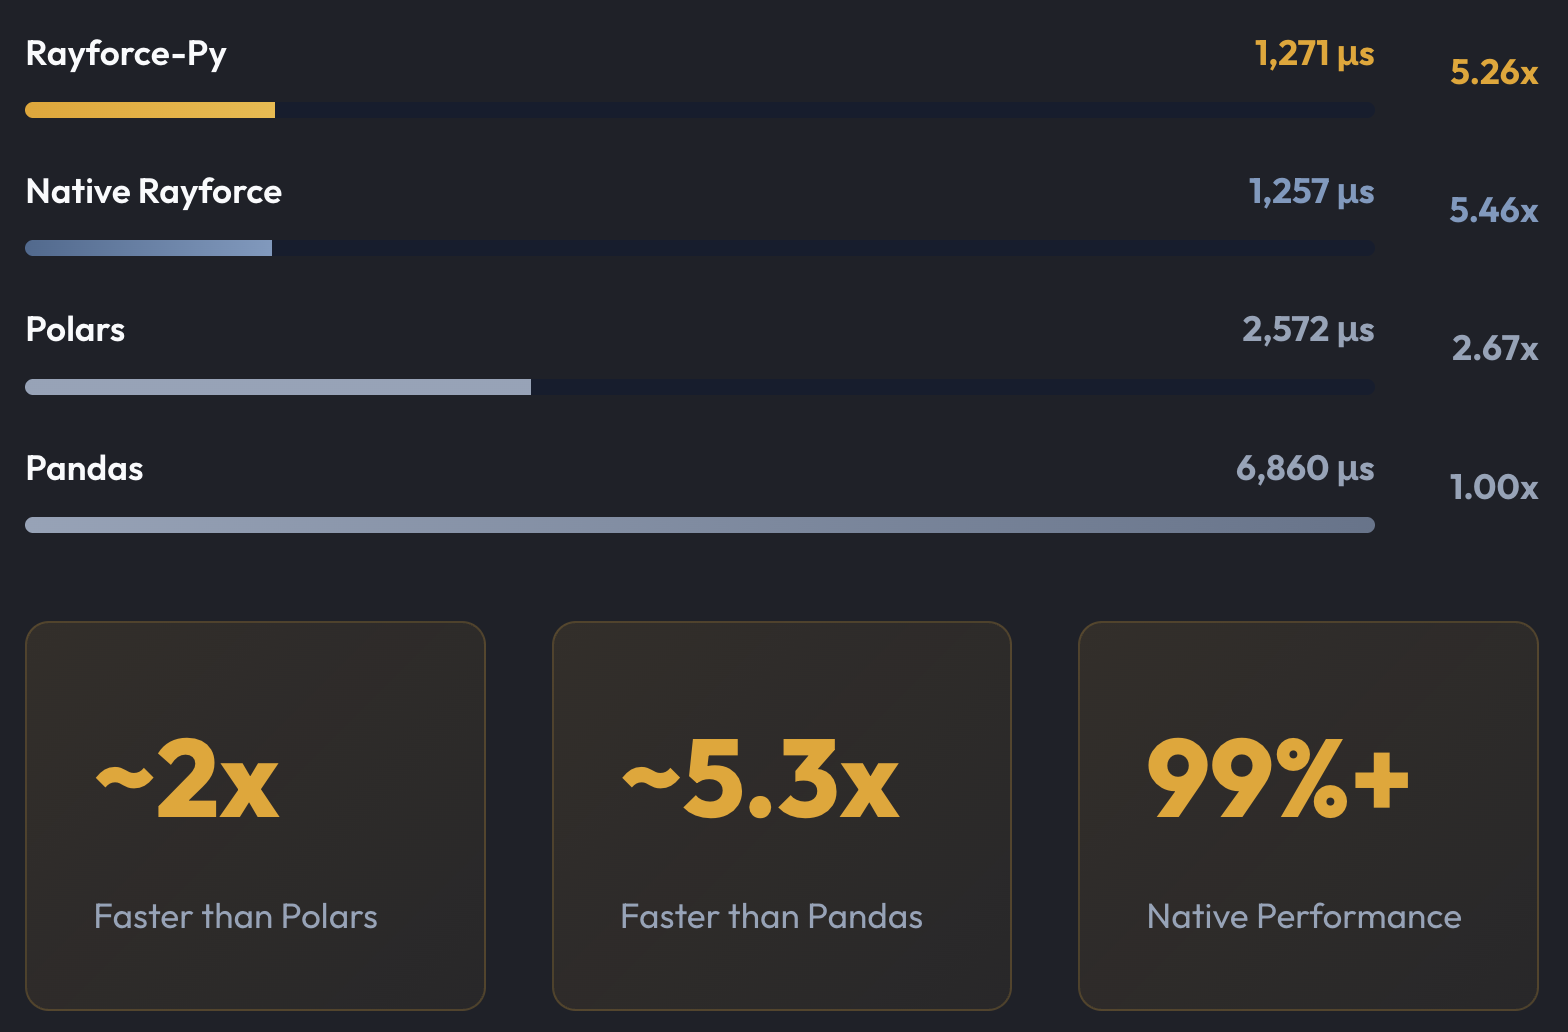
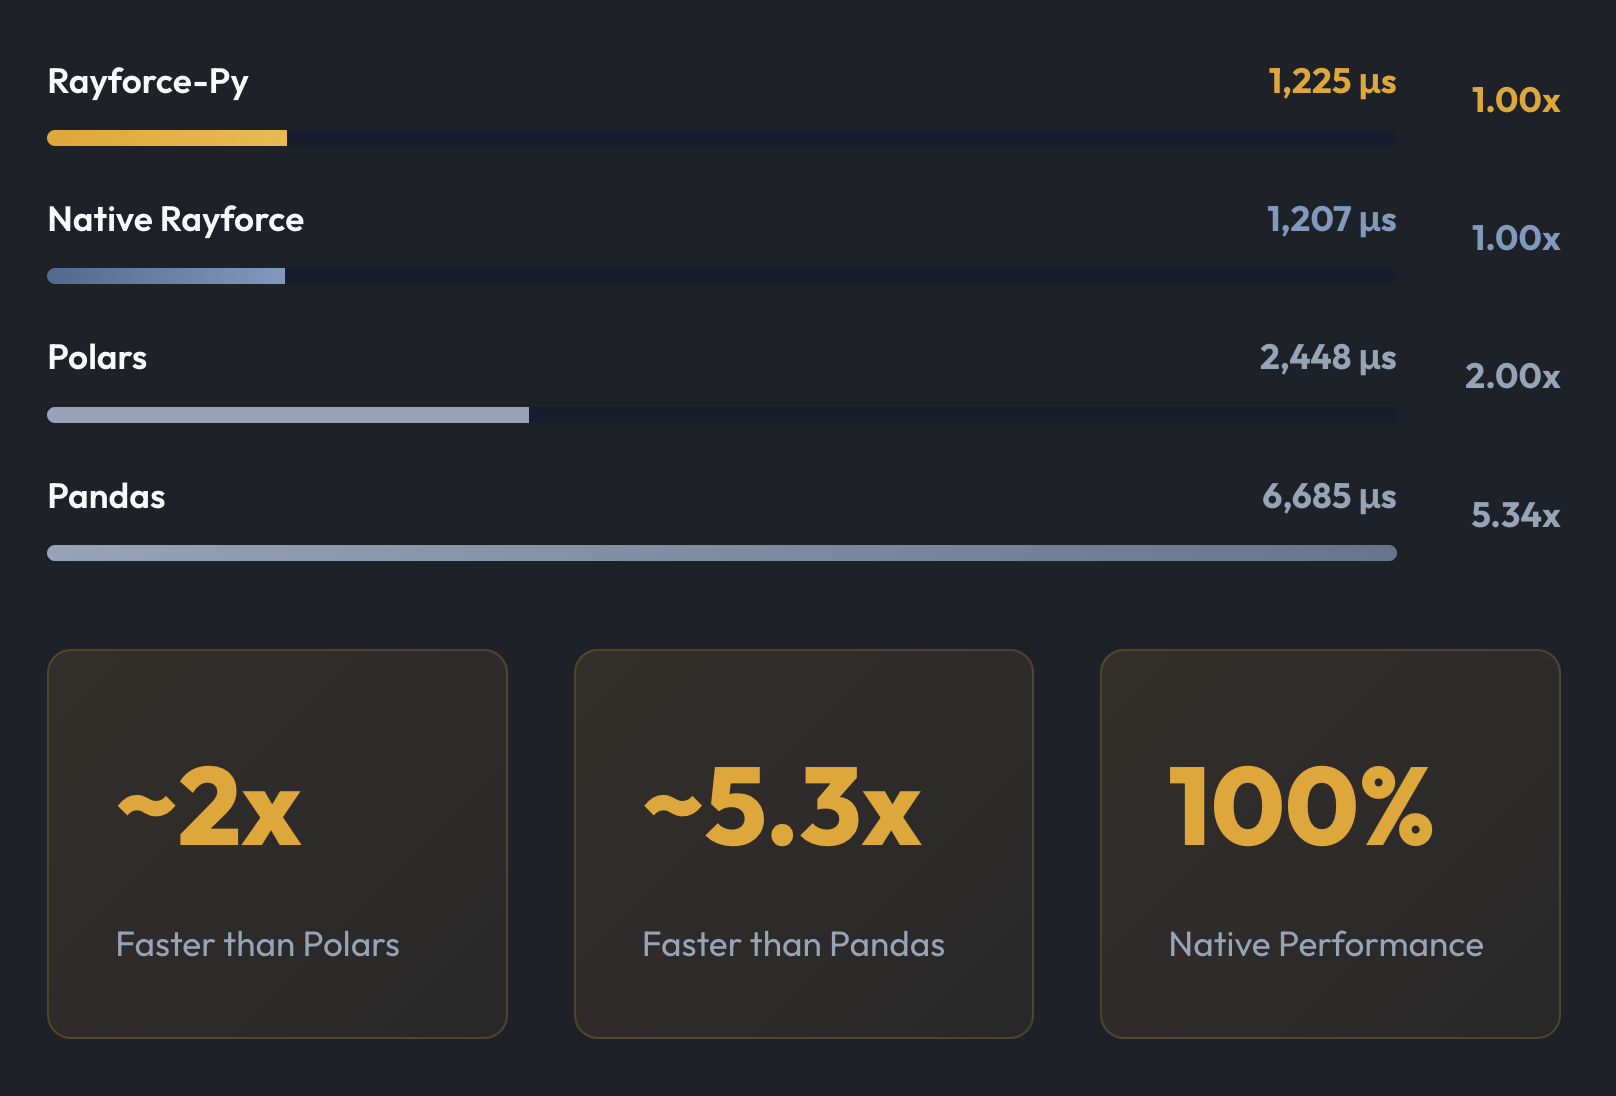
(docs) Update benchmarks

diff --git a/docs/docs/content/get-started/benchmarks.md b/docs/docs/content/get-started/benchmarks.md
@@ -12,7 +12,7 @@ var chartInstances = {};
 function rgbToHex(rgb) {
   if (!rgb) return '';
   if (rgb.startsWith('#')) return rgb;
-  
+
   var match = rgb.match(/rgb\((\d+),\s*(\d+),\s*(\d+)\)/);
   if (match) {
     var r = parseInt(match[1]).toString(16).padStart(2, '0');
@@ -27,11 +27,11 @@ function rgbToHex(rgb) {
 function getChartTheme() {
   // Use light grey for all chart text
   var textColor = '#888888';
-  
+
   // Determine if dark mode for other styling
   var scheme = document.documentElement.getAttribute('data-md-color-scheme');
   var isDark = scheme === 'slate';
-  
+
   return {
     textColor: textColor,
     gridLineColor: isDark ? '#4A5568' : '#D0D0D0',
@@ -43,7 +43,7 @@ function getChartTheme() {
 function initAllCharts() {
   // Get fresh theme detection for each initialization
   var theme = getChartTheme();
-  
+
   // Q1 Chart
   var q1Chart = echarts.init(document.getElementById('q1-chart'));
   q1Chart.setOption({
@@ -54,14 +54,14 @@ function initAllCharts() {
     xAxis: { type: 'category', data: ['Rayforce-Py', 'Native Rayforce', 'Polars', 'Pandas'], axisLabel: { textStyle: { color: theme.textColor } } },
     yAxis: { type: 'value', name: 'Time (μs)', nameLocation: 'middle', nameGap: 50, nameTextStyle: { color: theme.textColor }, axisLabel: { textStyle: { color: theme.textColor } }, splitLine: { lineStyle: { color: theme.gridLineColor } } },
     series: [{ name: 'Time (μs)', type: 'bar', data: [
-      { value: 781, itemStyle: { color: '#E9A320' } },
-      { value: 779, itemStyle: { color: '#1B365D' } },
-      { value: 1096, itemStyle: { color: '#718096' } },
-      { value: 3696, itemStyle: { color: '#718096' } }
+      { value: 741, itemStyle: { color: '#E9A320' } },
+      { value: 761, itemStyle: { color: '#1B365D' } },
+      { value: 1143, itemStyle: { color: '#718096' } },
+      { value: 3663, itemStyle: { color: '#718096' } }
     ], label: { show: true, position: 'top', textStyle: { color: theme.textColor, fontWeight: 'bold' } } }]
   });
   chartInstances['q1-chart'] = q1Chart;
-  
+
   // Q2 Chart
   var q2Chart = echarts.init(document.getElementById('q2-chart'));
   q2Chart.setOption({
@@ -72,14 +72,14 @@ function initAllCharts() {
     xAxis: { type: 'category', data: ['Rayforce-Py', 'Native Rayforce', 'Polars', 'Pandas'], axisLabel: { rotate: 0, color: theme.textColor }, axisLine: { lineStyle: { color: theme.textColor } } },
     yAxis: { type: 'value', name: 'Time (μs)', nameLocation: 'middle', nameGap: 50, nameTextStyle: { color: theme.textColor }, axisLabel: { color: theme.textColor }, axisLine: { lineStyle: { color: theme.textColor } }, splitLine: { lineStyle: { color: theme.gridLineColor } } },
     series: [{ name: 'Time (μs)', type: 'bar', data: [
-      { value: 2398, itemStyle: { color: '#E9A320' } },
-      { value: 2410, itemStyle: { color: '#1B365D' } },
-      { value: 6797, itemStyle: { color: '#718096' } },
-      { value: 14155, itemStyle: { color: '#718096' } }
+      { value: 2351, itemStyle: { color: '#E9A320' } },
+      { value: 2400, itemStyle: { color: '#1B365D' } },
+      { value: 6763, itemStyle: { color: '#718096' } },
+      { value: 13675, itemStyle: { color: '#718096' } }
     ], label: { show: true, position: 'top', color: theme.textColor } }]
   });
   chartInstances['q2-chart'] = q2Chart;
-  
+
   // Q3 Chart
   var q3Chart = echarts.init(document.getElementById('q3-chart'));
   q3Chart.setOption({
@@ -90,14 +90,14 @@ function initAllCharts() {
     xAxis: { type: 'category', data: ['Rayforce-Py', 'Native Rayforce', 'Polars', 'Pandas'], axisLabel: { rotate: 0, color: theme.textColor }, axisLine: { lineStyle: { color: theme.textColor } } },
     yAxis: { type: 'value', name: 'Time (μs)', nameLocation: 'middle', nameGap: 50, nameTextStyle: { color: theme.textColor }, axisLabel: { color: theme.textColor }, axisLine: { lineStyle: { color: theme.textColor } }, splitLine: { lineStyle: { color: theme.gridLineColor } } },
     series: [{ name: 'Time (μs)', type: 'bar', data: [
-      { value: 995, itemStyle: { color: '#E9A320' } },
-      { value: 983, itemStyle: { color: '#1B365D' } },
-      { value: 1261, itemStyle: { color: '#718096' } },
-      { value: 5141, itemStyle: { color: '#718096' } }
+      { value: 956, itemStyle: { color: '#E9A320' } },
+      { value: 974, itemStyle: { color: '#1B365D' } },
+      { value: 1376, itemStyle: { color: '#718096' } },
+      { value: 4902, itemStyle: { color: '#718096' } }
     ], label: { show: true, position: 'top', color: theme.textColor } }]
   });
   chartInstances['q3-chart'] = q3Chart;
-  
+
   // Q4 Chart
   var q4Chart = echarts.init(document.getElementById('q4-chart'));
   q4Chart.setOption({
@@ -108,14 +108,14 @@ function initAllCharts() {
     xAxis: { type: 'category', data: ['Rayforce-Py', 'Native Rayforce', 'Polars', 'Pandas'], axisLabel: { rotate: 0, color: theme.textColor }, axisLine: { lineStyle: { color: theme.textColor } } },
     yAxis: { type: 'value', name: 'Time (μs)', nameLocation: 'middle', nameGap: 50, nameTextStyle: { color: theme.textColor }, axisLabel: { color: theme.textColor }, axisLine: { lineStyle: { color: theme.textColor } }, splitLine: { lineStyle: { color: theme.gridLineColor } } },
     series: [{ name: 'Time (μs)', type: 'bar', data: [
-      { value: 1228, itemStyle: { color: '#E9A320' } },
-      { value: 1205, itemStyle: { color: '#1B365D' } },
-      { value: 1441, itemStyle: { color: '#718096' } },
-      { value: 6158, itemStyle: { color: '#718096' } }
+      { value: 1182, itemStyle: { color: '#E9A320' } },
+      { value: 1182, itemStyle: { color: '#1B365D' } },
+      { value: 1594, itemStyle: { color: '#718096' } },
+      { value: 6161, itemStyle: { color: '#718096' } }
     ], label: { show: true, position: 'top', color: theme.textColor } }]
   });
   chartInstances['q4-chart'] = q4Chart;
-  
+
   // Q5 Chart
   var q5Chart = echarts.init(document.getElementById('q5-chart'));
   q5Chart.setOption({
@@ -126,14 +126,14 @@ function initAllCharts() {
     xAxis: { type: 'category', data: ['Rayforce-Py', 'Native Rayforce', 'Polars', 'Pandas'], axisLabel: { rotate: 0, color: theme.textColor }, axisLine: { lineStyle: { color: theme.textColor } } },
     yAxis: { type: 'value', name: 'Time (μs)', nameLocation: 'middle', nameGap: 50, nameTextStyle: { color: theme.textColor }, axisLabel: { color: theme.textColor }, axisLine: { lineStyle: { color: theme.textColor } }, splitLine: { lineStyle: { color: theme.gridLineColor } } },
     series: [{ name: 'Time (μs)', type: 'bar', data: [
-      { value: 1202, itemStyle: { color: '#E9A320' } },
-      { value: 1176, itemStyle: { color: '#1B365D' } },
-      { value: 1431, itemStyle: { color: '#718096' } },
-      { value: 7086, itemStyle: { color: '#718096' } }
+      { value: 1153, itemStyle: { color: '#E9A320' } },
+      { value: 1164, itemStyle: { color: '#1B365D' } },
+      { value: 1551, itemStyle: { color: '#718096' } },
+      { value: 6908, itemStyle: { color: '#718096' } }
     ], label: { show: true, position: 'top', color: theme.textColor } }]
   });
   chartInstances['q5-chart'] = q5Chart;
-  
+
   // Q6 Chart
   var q6Chart = echarts.init(document.getElementById('q6-chart'));
   q6Chart.setOption({
@@ -144,14 +144,14 @@ function initAllCharts() {
     xAxis: { type: 'category', data: ['Rayforce-Py', 'Native Rayforce', 'Polars', 'Pandas'], axisLabel: { rotate: 0, color: theme.textColor }, axisLine: { lineStyle: { color: theme.textColor } } },
     yAxis: { type: 'value', name: 'Time (μs)', nameLocation: 'middle', nameGap: 50, nameTextStyle: { color: theme.textColor }, axisLabel: { color: theme.textColor }, axisLine: { lineStyle: { color: theme.textColor } }, splitLine: { lineStyle: { color: theme.gridLineColor } } },
     series: [{ name: 'Time (μs)', type: 'bar', data: [
-      { value: 1019, itemStyle: { color: '#E9A320' } },
-      { value: 990, itemStyle: { color: '#1B365D' } },
-      { value: 3403, itemStyle: { color: '#718096' } },
-      { value: 4922, itemStyle: { color: '#718096' } }
+      { value: 967, itemStyle: { color: '#E9A320' } },
+      { value: 971, itemStyle: { color: '#1B365D' } },
+      { value: 3339, itemStyle: { color: '#718096' } },
+      { value: 4802, itemStyle: { color: '#718096' } }
     ], label: { show: true, position: 'top', color: theme.textColor } }]
   });
   chartInstances['q6-chart'] = q6Chart;
-  
+
   // Resize handler
   window.addEventListener('resize', function() {
     Object.values(chartInstances).forEach(function(chart) {
@@ -196,52 +196,52 @@ document.addEventListener('DOMContentLoaded', function() {
     <div style="flex: 1;">
       <div style="display: flex; justify-content: space-between; margin-bottom: 0.5rem;">
         <span style="font-weight: 600;">Rayforce-Py</span>
-        <span style="color: var(--gold-500); font-weight: 700;">1,271 μs</span>
+        <span style="color: var(--gold-500); font-weight: 700;">1,225 μs</span>
       </div>
       <div style="background: var(--bg-tertiary); height: 8px; border-radius: 4px; overflow: hidden;">
-        <div style="background: linear-gradient(90deg, var(--gold-500), var(--gold-400)); height: 100%; width: 18.5%;"></div>
+        <div style="background: linear-gradient(90deg, var(--gold-500), var(--gold-400)); height: 100%; width: 17.8%;"></div>
       </div>
     </div>
-    <div style="color: var(--gold-500); font-weight: 700; min-width: 60px; text-align: right;">5.26x</div>
+    <div style="color: var(--gold-500); font-weight: 700; min-width: 60px; text-align: right;">1.00x</div>
   </div>
 
   <div style="display: flex; align-items: center; gap: 1rem; margin-bottom: 1rem;">
     <div style="flex: 1;">
       <div style="display: flex; justify-content: space-between; margin-bottom: 0.5rem;">
         <span style="font-weight: 600;">Native Rayforce</span>
-        <span style="color: var(--navy-300); font-weight: 700;">1,257 μs</span>
+        <span style="color: var(--navy-300); font-weight: 700;">1,207 μs</span>
       </div>
       <div style="background: var(--bg-tertiary); height: 8px; border-radius: 4px; overflow: hidden;">
-        <div style="background: linear-gradient(90deg, var(--navy-400), var(--navy-300)); height: 100%; width: 18.3%;"></div>
+        <div style="background: linear-gradient(90deg, var(--navy-400), var(--navy-300)); height: 100%; width: 17.6%;"></div>
       </div>
     </div>
-    <div style="color: var(--navy-300); font-weight: 700; min-width: 60px; text-align: right;">5.46x</div>
+    <div style="color: var(--navy-300); font-weight: 700; min-width: 60px; text-align: right;">1.00x</div>
   </div>
-  
+
   <div style="display: flex; align-items: center; gap: 1rem; margin-bottom: 1rem;">
     <div style="flex: 1;">
       <div style="display: flex; justify-content: space-between; margin-bottom: 0.5rem;">
         <span style="font-weight: 600;">Polars</span>
-        <span style="color: var(--text-secondary); font-weight: 700;">2,572 μs</span>
+        <span style="color: var(--text-secondary); font-weight: 700;">2,448 μs</span>
       </div>
       <div style="background: var(--bg-tertiary); height: 8px; border-radius: 4px; overflow: hidden;">
-        <div style="background: linear-gradient(90deg, var(--text-secondary), var(--text-secondary)); height: 100%; width: 37.5%;"></div>
+        <div style="background: linear-gradient(90deg, var(--text-secondary), var(--text-secondary)); height: 100%; width: 35.7%;"></div>
       </div>
     </div>
-    <div style="color: var(--text-secondary); font-weight: 700; min-width: 60px; text-align: right;">2.67x</div>
+    <div style="color: var(--text-secondary); font-weight: 700; min-width: 60px; text-align: right;">2.00x</div>
   </div>
-  
+
   <div style="display: flex; align-items: center; gap: 1rem;">
     <div style="flex: 1;">
       <div style="display: flex; justify-content: space-between; margin-bottom: 0.5rem;">
         <span style="font-weight: 600;">Pandas</span>
-        <span style="color: var(--text-secondary); font-weight: 700;">6,860 μs</span>
+        <span style="color: var(--text-secondary); font-weight: 700;">6,685 μs</span>
       </div>
       <div style="background: var(--bg-tertiary); height: 8px; border-radius: 4px; overflow: hidden;">
         <div style="background: linear-gradient(90deg, var(--text-secondary), var(--text-tertiary)); height: 100%; width: 100%;"></div>
       </div>
     </div>
-    <div style="color: var(--text-secondary); font-weight: 700; min-width: 60px; text-align: right;">1.00x</div>
+    <div style="color: var(--text-secondary); font-weight: 700; min-width: 60px; text-align: right;">5.34x</div>
   </div>
 </div>
 
@@ -256,17 +256,17 @@ document.addEventListener('DOMContentLoaded', function() {
     <div style="color: var(--text-secondary); font-size: 0.8rem;">Faster than Pandas</div>
   </div>
   <div style="background: linear-gradient(135deg, rgba(233, 163, 32, 0.1) 0%, rgba(233, 163, 32, 0.05) 100%); padding: 1.5rem; border-radius: 12px; border: 1px solid rgba(233, 163, 32, 0.2);">
-    <div style="font-size: 2.5rem; font-weight: 800; color: var(--gold-500); margin-bottom: 0.5rem;">99%+</div>
+    <div style="font-size: 2.5rem; font-weight: 800; color: var(--gold-500); margin-bottom: 0.5rem;">100%</div>
     <div style="color: var(--text-secondary); font-size: 0.8rem;">Native Performance</div>
   </div>
 </div>
 
-*Benchmarks run on: macOS M4 32GB, 1M rows, 100 groups, 20 runs (median), 5 warmup runs*
+*Benchmarks run on: macOS M4 32GB, 1M rows, 100 groups, 50 runs (median), 20 warmup runs*
 
 !!! info "Methodology"
     - **Dataset**: 1,000,000 rows, 6 columns (id1, id2, id3, v1, v2, v3)
-    - **Timing**: Median of 20 runs
-    - **Warmup**: 5 runs per query to warm caches
+    - **Timing**: Median of 50 runs
+    - **Warmup**: 20 runs per query to warm caches
     - **Data**: Deterministic (seed=42) for reproducibility
 
 ---
@@ -277,10 +277,10 @@ document.addEventListener('DOMContentLoaded', function() {
 
 | Implementation | Time (μs) | vs Native | vs Pandas | vs Polars |
 |----------------|-----------|------------|-----------|-----------|
-| **Rayforce-Py** | **781** | 1.00x | **4.74x** | **1.40x** |
-| Native Rayforce | 779 | 1.00x | 4.75x | 1.41x |
-| Polars | 1,096 | 1.41x | 3.37x | 1.00x |
-| Pandas | 3,696 | 4.75x | 1.00x | 0.30x |
+| **Rayforce-Py** | **741** | 1.03x | **4.94x** | **1.54x** |
+| Native Rayforce | 761 | 1.00x | 4.81x | 1.50x |
+| Polars | 1,143 | 1.50x | 3.20x | 1.00x |
+| Pandas | 3,663 | 4.81x | 1.00x | 0.31x |
 
 ---
 
@@ -290,13 +290,13 @@ document.addEventListener('DOMContentLoaded', function() {
 
 | Implementation | Time (μs) | vs Native | vs Pandas | vs Polars |
 |----------------|-----------|------------|-----------|-----------|
-| **Rayforce-Py** | **2,398** | 1.00x | **5.90x** | **2.83x** |
-| Native Rayforce | 2,410 | 1.00x | 5.87x | 2.82x |
-| Polars | 6,797 | 2.82x | 2.08x | 1.00x |
-| Pandas | 14,155 | 5.87x | 1.00x | 0.48x |
+| **Rayforce-Py** | **2,351** | 1.02x | **5.82x** | **2.88x** |
+| Native Rayforce | 2,400 | 1.00x | 5.70x | 2.81x |
+| Polars | 6,763 | 2.81x | 2.02x | 1.00x |
+| Pandas | 13,675 | 5.70x | 1.00x | 0.50x |
 
 !!! tip "Performance Insight"
-    Multi-column group by operations show the largest performance advantage, with Rayforce-Py being **5.90x faster** than Pandas and **2.83x faster** than Polars.
+    Multi-column group by operations show the largest performance advantage, with Rayforce-Py being **5.82x faster** than Pandas and **2.88x faster** than Polars.
 
 ---
 
@@ -306,10 +306,10 @@ document.addEventListener('DOMContentLoaded', function() {
 
 | Implementation | Time (μs) | vs Native | vs Pandas | vs Polars |
 |----------------|-----------|------------|-----------|-----------|
-| **Rayforce-Py** | **995** | 0.99x | **5.17x** | **1.27x** |
-| Native Rayforce | 983 | 1.00x | 5.23x | 1.28x |
-| Polars | 1,261 | 1.28x | 4.08x | 1.00x |
-| Pandas | 5,141 | 5.23x | 1.00x | 0.25x |
+| **Rayforce-Py** | **956** | 1.02x | **5.13x** | **1.44x** |
+| Native Rayforce | 974 | 1.00x | 5.03x | 1.41x |
+| Polars | 1,376 | 1.41x | 3.56x | 1.00x |
+| Pandas | 4,902 | 5.03x | 1.00x | 0.28x |
 
 ---
 
@@ -319,10 +319,10 @@ document.addEventListener('DOMContentLoaded', function() {
 
 | Implementation | Time (μs) | vs Native | vs Pandas | vs Polars |
 |----------------|-----------|------------|-----------|-----------|
-| **Rayforce-Py** | **1,228** | 0.98x | **5.01x** | **1.17x** |
-| Native Rayforce | 1,205 | 1.00x | 5.11x | 1.19x |
-| Polars | 1,441 | 1.19x | 4.27x | 1.00x |
-| Pandas | 6,158 | 5.11x | 1.00x | 0.23x |
+| **Rayforce-Py** | **1,182** | 1.00x | **5.21x** | **1.35x** |
+| Native Rayforce | 1,182 | 1.00x | 5.21x | 1.35x |
+| Polars | 1,594 | 1.35x | 3.87x | 1.00x |
+| Pandas | 6,161 | 5.21x | 1.00x | 0.26x |
 
 ---
 
@@ -332,13 +332,13 @@ document.addEventListener('DOMContentLoaded', function() {
 
 | Implementation | Time (μs) | vs Native | vs Pandas | vs Polars |
 |----------------|-----------|------------|-----------|-----------|
-| **Rayforce-Py** | **1,202** | 0.98x | **5.90x** | **1.19x** |
-| Native Rayforce | 1,176 | 1.00x | 6.03x | 1.22x |
-| Polars | 1,431 | 1.22x | 4.95x | 1.00x |
-| Pandas | 7,086 | 6.03x | 1.00x | 0.20x |
+| **Rayforce-Py** | **1,153** | 1.01x | **5.99x** | **1.34x** |
+| Native Rayforce | 1,164 | 1.00x | 5.93x | 1.33x |
+| Polars | 1,551 | 1.33x | 4.45x | 1.00x |
+| Pandas | 6,908 | 5.93x | 1.00x | 0.22x |
 
 !!! success "Best Performance"
-    Q5 shows Rayforce-Py performing **5.90x faster** than Pandas and **1.19x faster** than Polars, demonstrating excellent performance on multiple aggregations.
+    Q5 shows Rayforce-Py performing **5.99x faster** than Pandas and **1.34x faster** than Polars, demonstrating excellent performance on multiple aggregations.
 
 ---
 
@@ -348,25 +348,27 @@ document.addEventListener('DOMContentLoaded', function() {
 
 | Implementation | Time (μs) | vs Native | vs Pandas | vs Polars |
 |----------------|-----------|------------|-----------|-----------|
-| **Rayforce-Py** | **1,019** | 0.97x | **4.83x** | **3.34x** |
-| Native Rayforce | 990 | 1.00x | 4.97x | 3.44x |
-| Polars | 3,403 | 3.44x | 1.45x | 1.00x |
-| Pandas | 4,922 | 4.97x | 1.00x | 0.69x |
+| **Rayforce-Py** | **967** | 1.00x | **4.97x** | **3.45x** |
+| Native Rayforce | 971 | 1.00x | 4.95x | 3.44x |
+| Polars | 3,339 | 3.44x | 1.44x | 1.00x |
+| Pandas | 4,802 | 4.95x | 1.00x | 0.69x |
 
 ---
 
 | Query | Rayforce-Py vs Native | Rayforce-Py vs Pandas | Rayforce-Py vs Polars |
 |-------|----------------------|----------------------|----------------------|
-| Q1 | 1.00x | **4.74x** | **1.40x** |
-| Q2 | 1.00x | **5.90x** | **2.83x** |
-| Q3 | 0.99x | **5.17x** | **1.27x** |
-| Q4 | 0.98x | **5.01x** | **1.17x** |
-| Q5 | 0.98x | **5.90x** | **1.19x** |
-| Q6 | 0.97x | **4.83x** | **3.34x** |
-| **Average** | **0.99x** | **5.26x** | **1.87x** |
+| Q1 | 1.03x | **4.94x** | **1.54x** |
+| Q2 | 1.02x | **5.82x** | **2.88x** |
+| Q3 | 1.02x | **5.13x** | **1.44x** |
+| Q4 | 1.00x | **5.21x** | **1.35x** |
+| Q5 | 1.01x | **5.99x** | **1.34x** |
+| Q6 | 1.00x | **4.97x** | **3.45x** |
+| **Average** | **1.01x** | **5.34x** | **2.00x** |
 
 !!! note "Performance Analysis"
-    Rayforce-Py adds less that **0.5% average overhead** compared to native Rayforce, demonstrating the efficiency of the Python bindings. On average, Rayforce-Py is **5.26x faster** than Pandas and **1.87x faster** than Polars, making it an excellent choice for high-performance data processing.
+    Rayforce-Py adds almost **no overhead** compared to native Rayforce, demonstrating the efficiency of the Python bindings. On average, Rayforce-Py is **5.34x faster** than Pandas and **2.00x faster** than Polars, making it an excellent choice for high-performance data processing.
+
+    Note: The slight performance advantage shown by Rayforce-Py over native Rayforce is due to measurement methodology differences. Native Rayforce benchmarks include memory deallocation overhead, while Rayforce-Py measurements exclude it. In practice, the performance difference is negligible and within measurement noise, demonstrating that the Python bindings introduce virtually no overhead.
 
 ---
 

diff --git a/docs/docs/content/get-started/overview.md b/docs/docs/content/get-started/overview.md
@@ -29,7 +29,7 @@ Rayforce-Py is a powerful library which allows you to effectively execute statem
 
 <div style="background: var(--bg-secondary); padding: 1.5rem; border-radius: 12px; border: 1px solid var(--border-primary); margin: 2rem 0;">
   <div style="text-align: center; margin-bottom: 1.5rem;">
-    <div style="font-size: 3rem; font-weight: 800; color: var(--gold-500); margin-bottom: 0.5rem;">+0.88%</div>
+    <div style="font-size: 3rem; font-weight: 800; color: var(--gold-500); margin-bottom: 0.5rem;">0</div>
     <div style="color: var(--text-secondary); font-size: 1.1rem;">Average Overhead</div>
     <div style="color: var(--text-tertiary); font-size: 0.9rem; margin-top: 0.5rem;">Nearly identical to native performance</div>
   </div>
